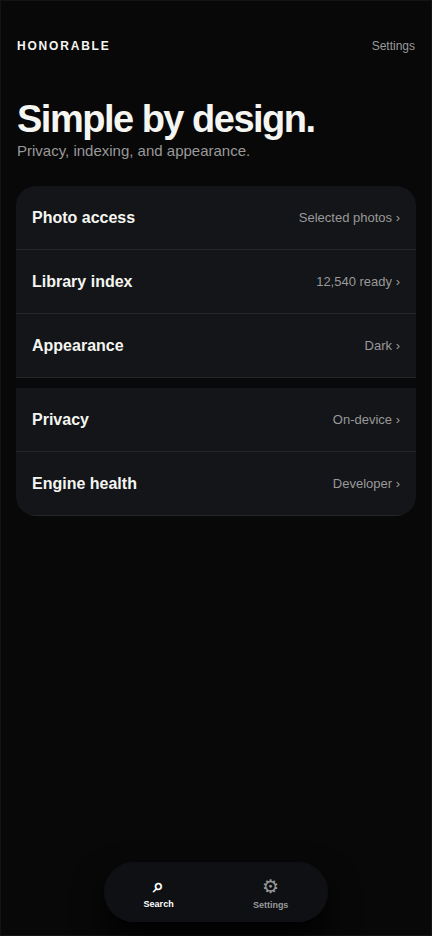
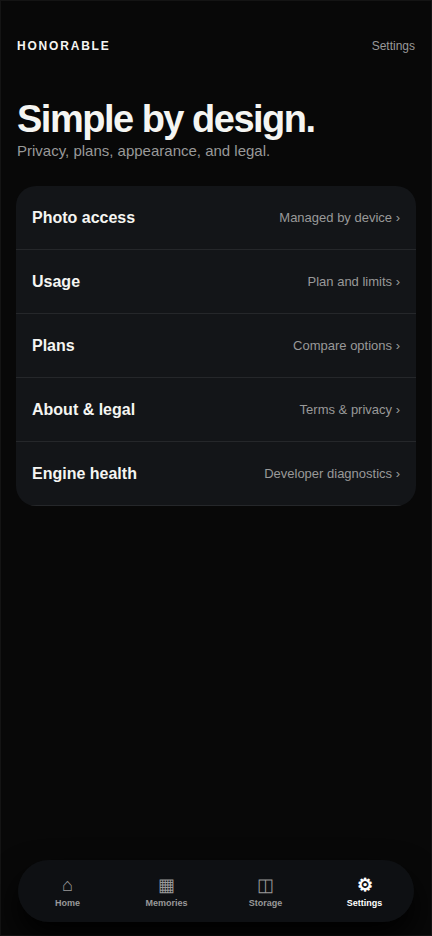
Expand UI preview coverage for redesign

diff --git a/Honorable-mobile-app-main/ui-previews/render.js b/Honorable-mobile-app-main/ui-previews/render.js
@@ -13,11 +13,14 @@ function viewer(){return `<main class="phone viewer"><div class="hero-media m0">
 function indexing(){return `<main class="phone hybrid"><header><b>HONORABLE</b><span>On-device</span></header><section class="intro"><h1>Your library is taking shape.</h1><p>Search what’s ready while the rest is prepared.</p></section>${search()}<div class="index-card"><div><b>Preparing your library</b><span>8,421 of 12,540</span></div><i><u></u></i></div><div class="grid faded">${media}</div>${nav()}</main>`}
 function empty(){return `<main class="phone hybrid"><header><b>HONORABLE</b><span>On-device</span></header>${search('purple elephant in my kitchen')}<div class="empty"><b>No clear match yet</b><p>Try a color, place, date, object, or visible text.</p><button>Clear search</button></div>${nav()}</main>`}
 function onboarding(){return `<main class="phone hybrid onboarding"><header><b>HONORABLE</b></header><div class="onboard-grid grid">${media}</div><div class="onboard-copy"><em>PRIVATE PHOTO SEARCH</em><h1>Find any photo by describing it.</h1><p>Your photos stay on this device.</p><button>Choose photos & videos</button></div></main>`}
-function settings(){return `<main class="phone hybrid"><header><b>HONORABLE</b><span>Settings</span></header><section class="intro"><h1>Simple by design.</h1><p>Privacy, plans, appearance, and legal.</p></section><div class="settings"><div><b>Photo access</b><span>Managed by device ›</span></div><div><b>Usage</b><span>Plan and limits ›</span></div><div><b>Plans</b><span>Compare options ›</span></div><hr><div><b>About & legal</b><span>Terms & privacy ›</span></div></div>${nav('Settings')}</main>`}
+function settings(){return `<main class="phone hybrid"><header><b>HONORABLE</b><span>Settings</span></header><section class="intro"><h1>Simple by design.</h1><p>Privacy, plans, appearance, and legal.</p></section><div class="settings"><div><b>Photo access</b><span>Managed by device ›</span></div><div><b>Usage</b><span>Plan and limits ›</span></div><div><b>Plans</b><span>Compare options ›</span></div><div><b>About & legal</b><span>Terms & privacy ›</span></div><div><b>Engine health</b><span>Developer diagnostics ›</span></div></div>${nav('Settings')}</main>`}
 function storage(){return `<main class="phone hybrid"><header><b>STORAGE</b><span>On-device</span></header><section class="intro storage-intro"><h1>Your library,<br>on device.</h1><p>See what is ready to search.</p></section><div class="storage-card"><div><i>◫</i><span><b>Index ready</b><small>12,540 media ready</small></span><strong>100%</strong></div><u><em></em></u></div><div class="storage-metrics"><div><small>INDEXED MEDIA</small><b>12,540</b></div><div><small>PHOTO ACCESS</small><b>Selected</b></div><div><small>INDEX STORAGE</small><b>On device</b></div><div><small>CACHE SIZE</small><b>Not measured</b></div></div><div class="safe-storage">✓ <span><b>Your originals stay safe</b><small>Reindexing only rebuilds Honorable’s private index.</small></span></div><div class="storage-actions"><small>LIBRARY</small><div><b>Reindex library</b><span>Rebuild search index only ›</span></div><div><b>Manage photo access</b><span>Device settings ›</span></div></div>${nav('Storage')}</main>`}
+function memories(){return `<main class="phone hybrid memories-screen"><header><b>MEMORIES</b><span>All dates</span></header>${search()}<div class="filters library-filters"><b>All</b><span>Photos</span><span>Videos</span><span>Date</span></div><div class="date-head"><b>Today</b><span>9 moments</span></div><div class="grid memories-grid">${media}</div><div class="date-head second-date"><b>August 29</b><span>Earlier</span></div><div class="grid memories-grid lower">${media}</div>${nav('Memories')}</main>`}
+function searchMode(){return `<main class="phone hybrid sheet-preview"><header><b>HONORABLE</b><span>On-device</span></header><section class="intro home-intro"><em>PRIVATE PHOTO SEARCH</em><h1>Find a moment.</h1><p>Describe anything you remember.</p></section>${search()}<button class="mode">⌕ &nbsp; Quick <i>⌄</i></button><div class="result-head home-recent"><b>Recent</b><span>Your library</span></div><div class="grid home-grid">${media}</div>${nav()}<div class="sheet-scrim"></div><section class="mode-sheet"><i class="sheet-handle"></i><div class="sheet-title"><span><b>Search mode</b><small>Choose how Honorable searches this device.</small></span><em>×</em></div><div class="mode-row selected"><span><b>Quick</b><small>Fast and lightweight</small></span><strong>✓</strong></div><div class="mode-row locked"><span><b>Smart</b><small>Better understanding of what you remember</small></span><strong>⌑ Upgrade</strong></div><div class="mode-row locked"><span><b>Deep Search</b><small>Most detailed local search</small></span><strong>⌑ Pro</strong></div><p>Availability follows your verified plan. Every mode runs locally; free search is never intentionally slowed.</p></section></main>`}
+function legal(){return `<main class="phone hybrid legal"><header><b>‹</b><span></span></header><section class="intro"><h1>About & legal</h1><p>Honorable keeps search and indexing on your device.</p></section><div class="settings legal-list"><div><b>Terms of Service</b><span>›</span></div><div><b>Privacy Policy</b><span>›</span></div></div><div class="legal-note"><b>No legal tab.</b><span>Legal information lives in Settings, outside primary navigation.</span></div></main>`}
 const legacyDock=active=>`<nav class="legacy-dock">${[['⌂','Home'],['◎','Memories'],['✦','Terms'],['↻','Activity'],['⚙','Settings']].map(x=>`<span class="${x[1]===active?'active':''}"><i>${x[0]}</i><small>${x[1]}</small></span>`).join('')}</nav>`;
 function legacyHome(){return `<main class="phone legacy mono"><div class="legacy-brand"><b>h</b><span><strong>Honorable</strong><small>Private intelligence</small></span><em>●&nbsp; On device</em></div><section class="legacy-hero"><div class="legacy-bubbles"><i></i><i></i><i></i><i></i></div><small>● &nbsp; YOUR LIFE, SEARCHABLE</small><h1>Find what<br><em>matters.</em></h1><p>Describe a moment the way you remember it.<br>Honorable finds it privately, right here.</p><div class="legacy-search"><i>✦</i><span><small>Ask your memories</small><b>A white beach with tall grass</b></span><em>↗</em></div></section><div class="legacy-bento"><div><i>◎</i><span><b>Memories</b><small>Find any moment</small></span><em>↗</em></div><div><i>✦</i><span><b>Terms AI</b><small>Make fine print clear</small></span><em>↗</em></div></div><div class="legacy-private"><i>⌁</i><span><b>Yours stays yours</b><small>Search and media never leave this phone.</small></span><em>✓</em></div>${legacyDock('Home')}</main>`}
 function legacyMemories(){return `<main class="phone legacy legacy-memories mono"><div class="legacy-memory-ambient"><i></i><i></i></div><div class="legacy-brand"><b>h</b><span><strong>Honorable</strong><small>Memory space</small></span><em>●&nbsp; On device</em></div><section class="legacy-memory-intro"><small>PRIVATE MEMORY SEARCH</small><h1>What do you<br><em>remember?</em></h1><p>A color, a place, a tiny detail—start anywhere.</p></section><div class="legacy-memory-search">⌕ <span>Start describing…</span><b>↗</b></div><div class="legacy-section-title"><b>Start anywhere</b><small>Made for your library</small></div><div class="legacy-prompt feature beach"><i>⌕</i><span><small>TRY A SCENE</small><b>White beach<br>with tall grass</b><em>Place + texture + color</em></span></div><div class="legacy-prompt-row"><div class="legacy-prompt car"><i>◒</i><span><small>COLOR + WEATHER</small><b>Red car<br>in snow</b></span></div><div class="legacy-prompt cake"><i>✦</i><span><small>OBJECT + LIGHT</small><b>Birthday cake<br>by a window</b></span></div></div><div class="legacy-local"><i>✓</i><span><b>Private by default</b><small>Photos and searches stay on this device.</small></span><em>9,812 ready</em></div>${legacyDock('Memories')}</main>`}
 const selected={klass:'mono',eyebrow:'PRIVATE PHOTO SEARCH',title:'Find a moment.',sub:'Describe anything you remember.'};
-const screens={'01-home':legacyHome,'02-memories':legacyMemories,'concept-a':()=>home(concepts['concept-a']),'concept-b':()=>home(concepts['concept-b']),'concept-c':()=>home(concepts['concept-c']),'selected-home':()=>home(selected),'selected-results':results,'selected-viewer':viewer,'selected-indexing':indexing,'selected-empty':empty,'selected-onboarding':onboarding,'selected-settings':settings,'selected-storage':storage,'selected-small':()=>`<div class="device-note">SMALL ANDROID · 360 × 800</div>${home(selected)}`,'selected-large':()=>`<div class="device-note">LARGE PHONE · 480 × 1040</div>${results()}`};
+const screens={'01-home':legacyHome,'02-memories':legacyMemories,'concept-a':()=>home(concepts['concept-a']),'concept-b':()=>home(concepts['concept-b']),'concept-c':()=>home(concepts['concept-c']),'selected-home':()=>home(selected),'selected-memories':memories,'selected-search-mode':searchMode,'selected-results':results,'selected-viewer':viewer,'selected-indexing':indexing,'selected-empty':empty,'selected-onboarding':onboarding,'selected-settings':settings,'selected-legal':legal,'selected-storage':storage,'selected-small':()=>`<div class="device-note">SMALL ANDROID · 360 × 800</div>${home(selected)}`,'selected-large':()=>`<div class="device-note">LARGE PHONE · 480 × 1040</div>${results()}`};
 document.body.innerHTML=(screens[id]||screens['concept-c'])();

diff --git a/Honorable-mobile-app-main/ui-previews/render-overrides.css b/Honorable-mobile-app-main/ui-previews/render-overrides.css
@@ -208,3 +208,36 @@
 .storage-actions > div:nth-child(2) { margin-top: 8px; border-radius: 18px 18px 0 0; }
 .storage-actions > div:last-child { border-radius: 0 0 18px 18px; }
 .storage-actions span { color: #888; font-size: 10px; }
+
+/* Dedicated library, mode entitlement, and legal relocation previews. */
+.library-filters { margin-top: -6px; }
+.phone.memories-screen { height: 936px; min-height: 936px; }
+.date-head { display: flex; align-items: center; justify-content: space-between; padding: 5px 16px 9px; }
+.date-head b { font-size: 16px; }
+.date-head span { color: #888; font-size: 10px; }
+.memories-grid .media { aspect-ratio: .82; }
+.second-date { padding-top: 18px; }
+.memories-grid.lower { opacity: .86; }
+.sheet-preview .nav { filter: brightness(.5); }
+.sheet-scrim { position: absolute; z-index: 8; inset: 0; background: rgba(0,0,0,.6); }
+.mode-sheet { position: absolute; z-index: 9; left: 0; right: 0; bottom: 0; min-height: 542px; padding: 10px 18px 28px; border-radius: 28px 28px 0 0; background: #181b20; }
+.sheet-handle { display: block; width: 38px; height: 4px; margin: 0 auto; border-radius: 2px; background: #ffffff22; }
+.sheet-title { display: flex; align-items: flex-start; justify-content: space-between; margin: 22px 0 14px; }
+.sheet-title span,.mode-row span { display: flex; flex-direction: column; }
+.sheet-title b { font-size: 21px; }
+.sheet-title small { margin-top: 5px; color: #999; font-size: 12px; }
+.sheet-title em { display: grid; place-items: center; width: 36px; height: 36px; border-radius: 18px; background: #111316; color: #ddd; font-size: 20px; font-style: normal; }
+.mode-row { min-height: 76px; display: flex; align-items: center; margin-top: 8px; padding: 13px 15px; border: 1px solid #ffffff17; border-radius: 18px; }
+.mode-row span { flex: 1; }
+.mode-row b { font-size: 15px; }
+.mode-row small { margin-top: 6px; color: #999; font-size: 12px; }
+.mode-row strong { color: #a8c8ff; font-size: 12px; }
+.mode-row.selected { border-color: rgba(117,167,255,.48); background: rgba(76,139,226,.16); }
+.mode-row.locked { opacity: .72; }
+.mode-row.locked strong { padding: 6px 9px; border-radius: 14px; background: #111316; color: #aaa; font-size: 10px; }
+.mode-sheet p { color: #8f949b; font-size: 10px; line-height: 15px; }
+.legal header b { display: grid; place-items: center; width: 36px; height: 36px; border-radius: 18px; background: #15171a; font-size: 22px; }
+.legal-list { margin-top: 4px; }
+.legal-note { display: flex; flex-direction: column; margin: 18px 16px; padding: 16px; border: 1px solid #ffffff17; border-radius: 18px; }
+.legal-note b { font-size: 13px; }
+.legal-note span { margin-top: 6px; color: #888; font-size: 11px; line-height: 16px; }

diff --git a/Honorable-mobile-app-main/ui-previews/preview-data.js b/Honorable-mobile-app-main/ui-previews/preview-data.js
@@ -1,5 +1,5 @@
 const PREVIEWS=[
 ['01-home','Home · Original layout','Core UI','IMPLEMENTED'],['02-memories','Memories · Original layout','Core UI','IMPLEMENTED'],
 ['concept-a','Concept A · Black / White','Concept exploration','CONCEPT'],['concept-b','Concept B · Transparent Blue','Concept exploration','CONCEPT'],['concept-c','Concept C · Hybrid Premium','Concept exploration','CONCEPT'],
-['selected-home','Selected · Home / Search','Selected React Native UI','IMPLEMENTED'],['selected-results','Selected · Search results','Selected React Native UI','IMPLEMENTED'],['selected-viewer','Selected · Media viewer','Selected React Native UI','IMPLEMENTED'],['selected-indexing','Selected · Indexing','Selected React Native UI','IMPLEMENTED'],['selected-empty','Selected · Empty search','Selected React Native UI','IMPLEMENTED'],['selected-onboarding','Selected · Onboarding','Selected React Native UI','IMPLEMENTED'],['selected-settings','Selected · Settings','Selected React Native UI','IMPLEMENTED'],['selected-storage','Selected · Storage','Selected React Native UI','IMPLEMENTED'],['selected-small','Responsive · Small Android','Responsive review','IMPLEMENTED'],['selected-large','Responsive · Large phone','Responsive review','IMPLEMENTED']
+['selected-home','Selected · Home / Search','Selected React Native UI','IMPLEMENTED'],['selected-memories','Selected · Memories Library','Selected React Native UI','IMPLEMENTED'],['selected-search-mode','Selected · Search Modes','Selected React Native UI','IMPLEMENTED'],['selected-results','Selected · Search results','Selected React Native UI','IMPLEMENTED'],['selected-viewer','Selected · Media viewer','Selected React Native UI','IMPLEMENTED'],['selected-indexing','Selected · Indexing','Selected React Native UI','IMPLEMENTED'],['selected-empty','Selected · Empty search','Selected React Native UI','IMPLEMENTED'],['selected-onboarding','Selected · Onboarding','Selected React Native UI','IMPLEMENTED'],['selected-settings','Selected · Settings','Selected React Native UI','IMPLEMENTED'],['selected-legal','Selected · About & Legal','Selected React Native UI','IMPLEMENTED'],['selected-storage','Selected · Storage','Selected React Native UI','IMPLEMENTED'],['selected-small','Responsive · Small Android','Responsive review','IMPLEMENTED'],['selected-large','Responsive · Large phone','Responsive review','IMPLEMENTED']
 ].map(([id,name,group,status])=>({id,name,group,status,file:`${id}.png`,theme:'dark'}));
